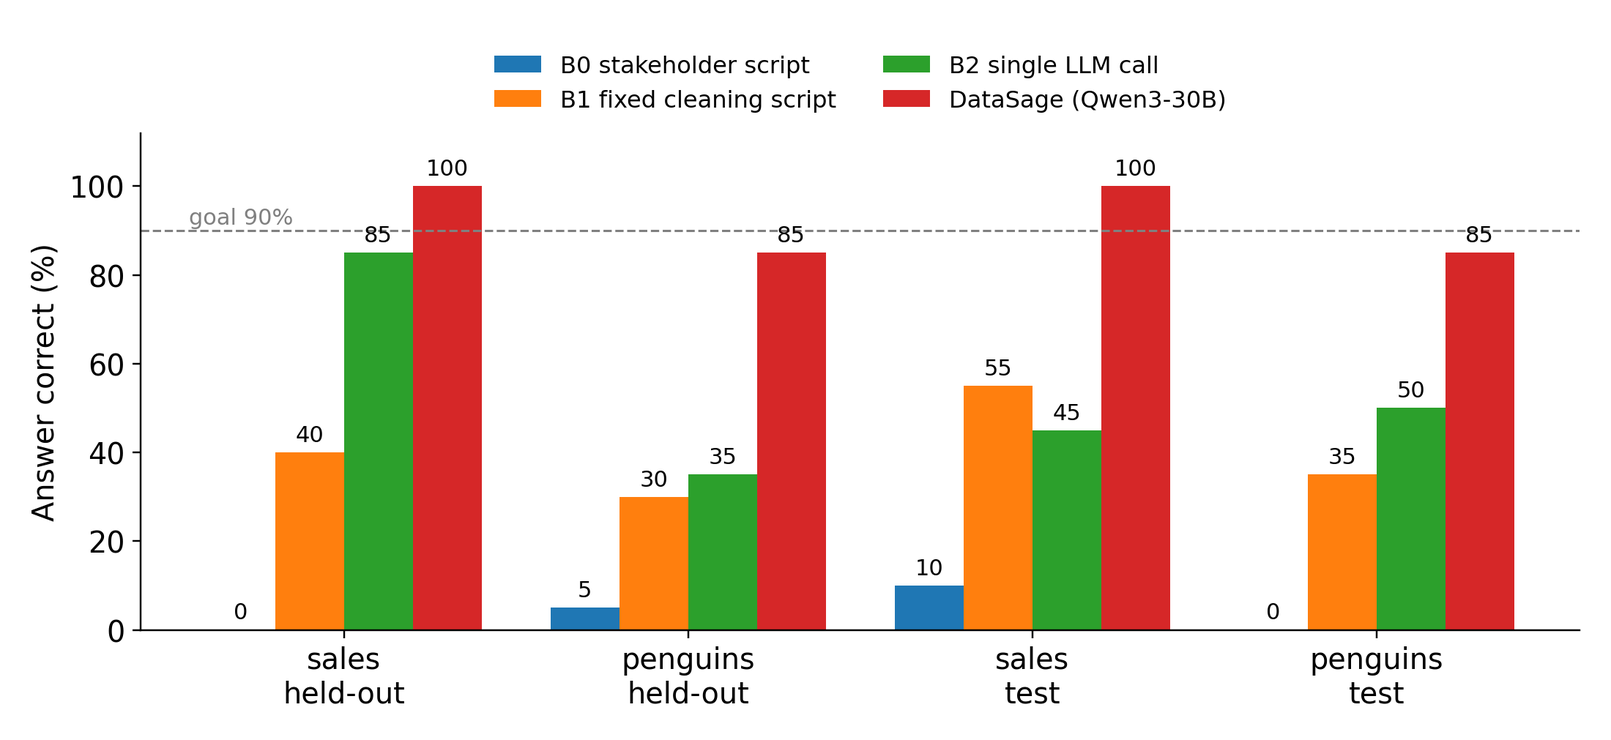
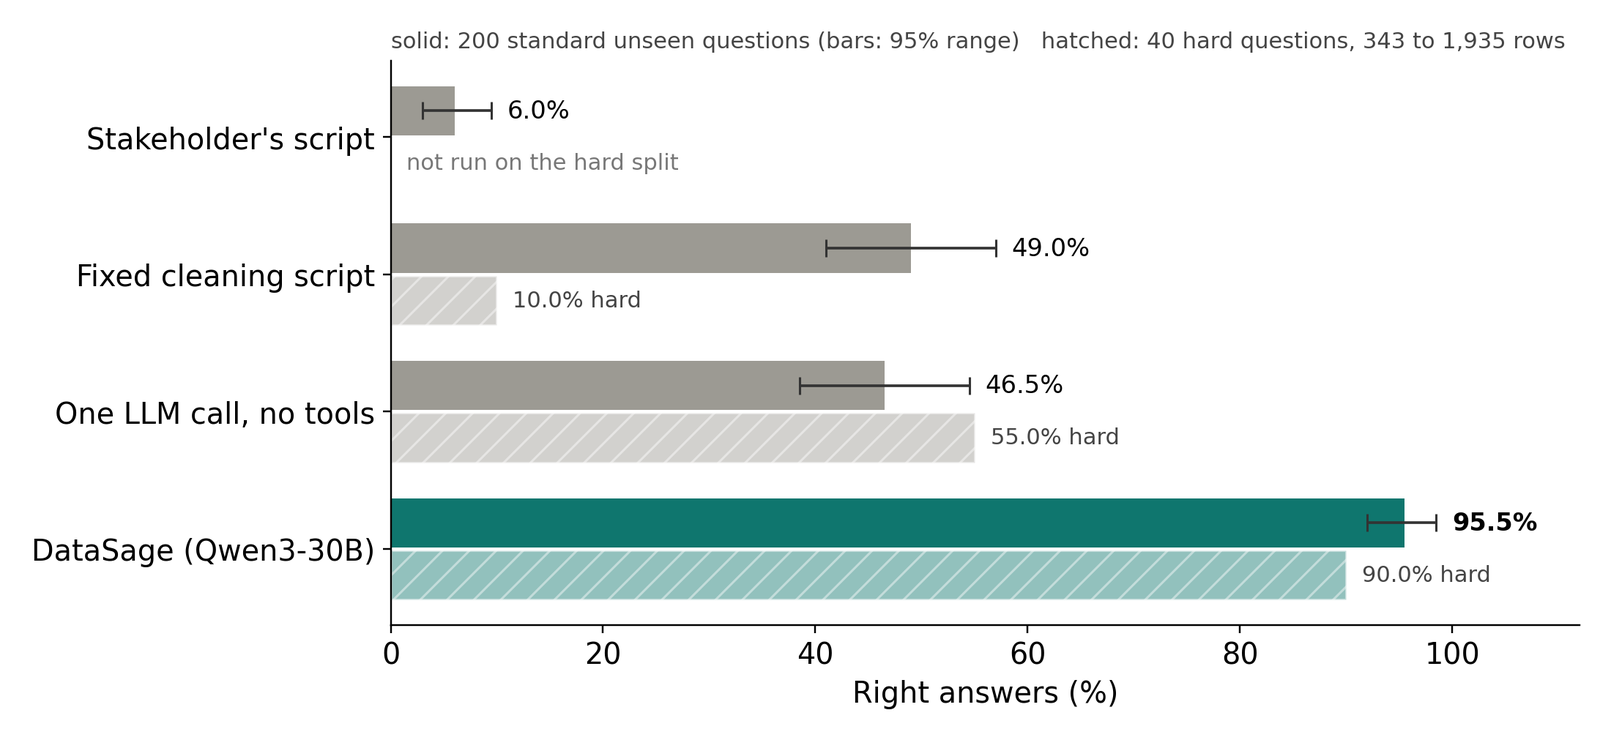
Update the poster and README with the scale, hard benchmark and Auto findings (model comparison to follow).

diff --git a/docs/final/poster/poster.html b/docs/final/poster/poster.html
@@ -30,13 +30,12 @@ a{color:#1F4E99}a:hover{color:#14284B}
 
 <div style="display: flex; flex-direction: column; gap: 30px; min-width: 0">
 
-<div style="background: #1F4E99; color: #FFFFFF; padding: 30px 36px; font-size: 44px; line-height: 1.28">An LLM agent that <b>checks, fixes and asks before it answers</b> gets <b>92.5%</b> of questions on messy tables right, against <b>54%</b> for a single LLM call, and never damaged a valid cell.</div>
+<div style="background: #1F4E99; color: #FFFFFF; padding: 30px 36px; font-size: 44px; line-height: 1.28">An LLM agent that <b>checks, fixes and asks before it answers</b> gets <b>95.5%</b> of 200 unseen questions on messy tables right, against <b>46.5%</b> for a single LLM call, and never damaged a valid cell.</div>
 
 <section style="display: flex; flex-direction: column; gap: 16px">
 <h2 style="margin: 0; background: #14284B; color: #FFFFFF; font-size: 32px; font-weight: 700; padding: 8px 20px">Problem</h2>
 <ul style="margin: 0; padding-left: 34px">
-<li>People ask simple questions (“total revenue by category?”) of messy CSV and Excel files.</li>
-<li>Duplicates, misspelled labels, bad dates and impossible values quietly change the answer.</li>
+<li>People ask simple questions (“total revenue by category?”) of messy CSV and Excel files, where duplicates, misspelled labels, bad dates and impossible values quietly change the answer.</li>
 <li>A fixed cleaning script misses what it was not written for. A single LLM call edits data it should leave alone and leaves no record of what it changed.</li>
 <li>Our stakeholder asked for: correct answers, no damaged data, every change logged, and a question before any risky change.</li>
 </ul>
@@ -70,10 +69,8 @@ a{color:#1F4E99}a:hover{color:#14284B}
 </div>
 <p style="margin: 0; text-align: center; font-size: 23px; line-height: 1.35"><span style="color: #1F4E99; font-weight: 700">Figure 1:</span> The DataSage loop. Only the planner (blue) uses a language model; orange marks approval decisions. Steps 2 to 4 repeat, one fix per step, until the columns the question uses are clean.</p>
 <ul style="margin: 0; padding-left: 34px">
-<li><b>Tools, not free-form code.</b> The model sees a profile and sample rows, never the whole table, and acts only through tools. Python does every calculation.</li>
-<li><b>Approval gate.</b> Code, not the model, sets each fix's risk. Low risk runs; medium and high risk ask the user. A rejected fix becomes a caveat and is not retried.</li>
-<li><b>Validator.</b> Every fix makes a new version. If rows or totals don't reconcile, the change is rolled back.</li>
-<li><b>Coverage check.</b> Before answering, code runs any check the rules require for the question's columns and sends open problems back to the planner.</li>
+<li><b>Tools, not free-form code:</b> the model sees a profile and sample rows and acts only through tools; Python does every calculation. A <b>validator</b> rolls back any fix whose rows or totals don't reconcile.</li>
+<li><b>Code decides what is risky, and what is still unchecked:</b> risky fixes wait for the user (a rejected fix becomes a caveat), and a <b>coverage check</b> runs any check the rules require before answering.</li>
 </ul>
 </section>
 
@@ -94,17 +91,8 @@ a{color:#1F4E99}a:hover{color:#14284B}
 </tbody>
 </table>
 <p style="margin: 0; text-align: center; font-size: 23px"><span style="color: #1F4E99; font-weight: 700">Table 1:</span> The input file (8 rows). Shaded cells break a rule; order 1004 appears twice.</p>
-<table style="border-collapse: collapse; width: 100%; font-size: 24px; line-height: 1.25; border-top: 3px solid #111111; border-bottom: 3px solid #111111">
-<thead><tr style="border-bottom: 1.5px solid #111111; text-align: left"><th style="padding: 7px 12px">Fix proposed by the planner</th><th style="padding: 7px 12px">Risk</th><th style="padding: 7px 12px">Decision</th></tr></thead>
-<tbody>
-<tr><td style="padding: 5px 12px">drop_duplicates (second copy of 1004)</td><td style="padding: 5px 12px">medium</td><td style="padding: 5px 12px">approved</td></tr>
-<tr><td style="padding: 5px 12px">normalize_labels (electronics, accessories)</td><td style="padding: 5px 12px">low</td><td style="padding: 5px 12px">applied, no question</td></tr>
-<tr><td style="padding: 5px 12px">exclude_rows (Quantity −1)</td><td style="padding: 5px 12px">high</td><td style="padding: 5px 12px">rejected → caveat</td></tr>
-<tr><td style="padding: 5px 12px">set_missing (“not-a-date”)</td><td style="padding: 5px 12px">high</td><td style="padding: 5px 12px">rejected → caveat</td></tr>
-</tbody>
-</table>
-<p style="margin: 0; text-align: center; font-size: 23px"><span style="color: #1F4E99; font-weight: 700">Table 2:</span> One run with Qwen3-30B: 14 tool calls, 3 questions to the user, 13 s.</p>
-<p style="margin: 0"><b>Answer:</b> Electronics 2,185 and Accessories 830 (7 rows used), with both rejected fixes listed as caveats. The run also writes replay.py, plain pandas that repeats the approved fixes.</p>
+<img src="figs/app_shot.png" alt="The DataSage browser app: a risky fix to drop six rows waits on a card under the first affected row, listing each row with its rule-breaking Quantity highlighted" style="width: 100%; height: auto; display: block; border: 1px solid #C9CDD6">
+<p style="margin: 0; text-align: center; font-size: 23px"><span style="color: #1F4E99; font-weight: 700">Figure 2:</span> The browser app on a 1,208-row version: a risky fix waits under the row it affects, with the exact rows as evidence. <i>Ask me</i> or <i>Auto</i> mode; every output (cleaned table, report, replay script, step log) can be viewed and downloaded.</p>
 </section>
 
 </div>
@@ -114,39 +102,39 @@ a{color:#1F4E99}a:hover{color:#14284B}
 <section style="display: flex; flex-direction: column; gap: 16px">
 <h2 style="margin: 0; background: #14284B; color: #FFFFFF; font-size: 32px; font-weight: 700; padding: 8px 20px">Benchmark</h2>
 <ul style="margin: 0; padding-left: 34px">
-<li>120 questions on tables with planted errors: a generated sales table and Palmer Penguins [3]. Dev, held-out and test splits, 40 questions each.</li>
-<li>8 kinds of planted error. Answers are scored against the same question on the clean table; an oracle that knows the planted errors answers approvals.</li>
+<li><b>200 unseen questions</b> on generated sales tables and Palmer Penguins [3] (five seeds, 40 each; 40 more were used while building), plus a <b>hard split</b> of 40 questions on tables of 343 to 1,935 rows with many problems at once.</li>
+<li>Answers are scored against the clean table; an oracle that knows the planted errors answers approvals. The final system was run 4 times.</li>
 <li><b>B0</b> the stakeholder's rule-based script · <b>B1</b> a fixed cleaning script · <b>B2</b> a single LLM call with no tools.</li>
-<li>Models: Qwen3-30B-A3B and Qwen3-235B-A22B [2] on ASU Research Computing.</li>
+<li>Planner: Qwen3-30B-A3B [2] on ASU Research Computing; 42 models on the same API were also tried as the planner.</li>
 </ul>
 </section>
 
 <section style="display: flex; flex-direction: column; gap: 16px">
 <h2 style="margin: 0; background: #14284B; color: #FFFFFF; font-size: 32px; font-weight: 700; padding: 8px 20px">Results</h2>
-<img src="figs/fig_accuracy.png" alt="Grouped bar chart of answer accuracy for B0, B1, B2 and DataSage on four held-out and test splits" style="width: 100%; height: auto; display: block">
-<p style="margin: 0; text-align: center; font-size: 23px"><span style="color: #1F4E99; font-weight: 700">Figure 2:</span> Answer accuracy on held-out (seed 101) and test (seed 202) tables, 20 questions per bar.</p>
+<img src="figs/fig_accuracy.png" alt="Bar chart of right answers by approach on 200 standard questions with 95% ranges, and on 40 hard questions" style="width: 100%; height: auto; display: block">
+<p style="margin: 0; text-align: center; font-size: 23px"><span style="color: #1F4E99; font-weight: 700">Figure 3:</span> Right answers by approach: 200 standard unseen questions (solid, with 95% ranges) and 40 hard questions (hatched).</p>
 <table style="border-collapse: collapse; width: 100%; font-size: 24px; line-height: 1.25; border-top: 3px solid #111111; border-bottom: 3px solid #111111">
-<thead><tr style="border-bottom: 1.5px solid #111111"><th style="padding: 7px 12px; text-align: left">System</th><th style="padding: 7px 12px; text-align: right">Held-out (%)</th><th style="padding: 7px 12px; text-align: right">Test (%)</th><th style="padding: 7px 12px; text-align: right">Damaged cells</th><th style="padding: 7px 12px; text-align: right">s / question</th></tr></thead>
+<thead><tr style="border-bottom: 1.5px solid #111111"><th style="padding: 7px 12px; text-align: left">System</th><th style="padding: 7px 12px; text-align: right">200 standard (%)</th><th style="padding: 7px 12px; text-align: right">40 hard (%)</th><th style="padding: 7px 12px; text-align: right">Damaged cells</th></tr></thead>
 <tbody>
-<tr><td style="padding: 5px 12px">B0 stakeholder script</td><td style="padding: 5px 12px; text-align: right">2.5</td><td style="padding: 5px 12px; text-align: right">5.0</td><td style="padding: 5px 12px; text-align: right">0</td><td style="padding: 5px 12px; text-align: right">&lt; 1</td></tr>
-<tr><td style="padding: 5px 12px">B1 fixed script</td><td style="padding: 5px 12px; text-align: right">35.0</td><td style="padding: 5px 12px; text-align: right">45.0</td><td style="padding: 5px 12px; text-align: right">0</td><td style="padding: 5px 12px; text-align: right">&lt; 1</td></tr>
-<tr><td style="padding: 5px 12px">B2 single LLM call</td><td style="padding: 5px 12px; text-align: right">60.0</td><td style="padding: 5px 12px; text-align: right">47.5</td><td style="padding: 5px 12px; text-align: right">35</td><td style="padding: 5px 12px; text-align: right">32.5</td></tr>
-<tr style="border-top: 1px solid #111111"><td style="padding: 5px 12px">DataSage, 235B + rule</td><td style="padding: 5px 12px; text-align: right">87.5</td><td style="padding: 5px 12px; text-align: right">n/a</td><td style="padding: 5px 12px; text-align: right">0</td><td style="padding: 5px 12px; text-align: right">153.6</td></tr>
-<tr><td style="padding: 5px 12px"><b>DataSage, 30B (final)</b></td><td style="padding: 5px 12px; text-align: right"><b>92.5</b></td><td style="padding: 5px 12px; text-align: right"><b>92.5</b></td><td style="padding: 5px 12px; text-align: right"><b>0</b></td><td style="padding: 5px 12px; text-align: right"><b>16.6</b></td></tr>
+<tr><td style="padding: 5px 12px">B0 stakeholder script</td><td style="padding: 5px 12px; text-align: right">6.0</td><td style="padding: 5px 12px; text-align: right">not run</td><td style="padding: 5px 12px; text-align: right">0</td></tr>
+<tr><td style="padding: 5px 12px">B1 fixed script</td><td style="padding: 5px 12px; text-align: right">49.0</td><td style="padding: 5px 12px; text-align: right">10.0</td><td style="padding: 5px 12px; text-align: right">0</td></tr>
+<tr><td style="padding: 5px 12px">B2 single LLM call</td><td style="padding: 5px 12px; text-align: right">46.5</td><td style="padding: 5px 12px; text-align: right">55.0</td><td style="padding: 5px 12px; text-align: right">119 + 637</td></tr>
+<tr style="border-top: 1px solid #111111"><td style="padding: 5px 12px"><b>DataSage, 30B (final)</b></td><td style="padding: 5px 12px; text-align: right"><b>95.5</b> (92.0 to 98.5)</td><td style="padding: 5px 12px; text-align: right"><b>90.0</b></td><td style="padding: 5px 12px; text-align: right"><b>0</b></td></tr>
+<tr><td style="padding: 5px 12px">DataSage, 235B</td><td style="padding: 5px 12px; text-align: right">n/a</td><td style="padding: 5px 12px; text-align: right">97.5</td><td style="padding: 5px 12px; text-align: right">0</td></tr>
 </tbody>
 </table>
-<p style="margin: 0; text-align: center; font-size: 23px"><span style="color: #1F4E99; font-weight: 700">Table 3:</span> 40 questions per split. Damaged cells are valid cells changed, summed over both splits; seconds are the median per question. The 235B model was run on held-out only.</p>
-<img src="figs/fig_speed.png" alt="Scatter plot of answer accuracy against median seconds per question on held-out, log scale" style="width: 88%; height: auto; display: block; margin: 0 auto">
-<p style="margin: 0; text-align: center; font-size: 23px"><span style="color: #1F4E99; font-weight: 700">Figure 3:</span> Accuracy against speed on held-out. Only the final 30B setting meets both goals.</p>
+<p style="margin: 0; text-align: center; font-size: 23px"><span style="color: #1F4E99; font-weight: 700">Table 3:</span> Damaged cells are valid cells a system changed (standard + hard). Over 4 runs the final system scored 94.0% to 96.0%; median about 16 s per question.</p>
+<img src="figs/fig_parts.png" alt="Bar chart of right answers when each part of DataSage is turned off, on the same 200 questions" style="width: 88%; height: auto; display: block; margin: 0 auto">
+<p style="margin: 0; text-align: center; font-size: 23px"><span style="color: #1F4E99; font-weight: 700">Figure 4:</span> What each part is worth: one part turned off, same 200 questions.</p>
 </section>
 
 <section style="display: flex; flex-direction: column; gap: 16px">
 <h2 style="margin: 0; background: #14284B; color: #FFFFFF; font-size: 32px; font-weight: 700; padding: 8px 20px">What we learned</h2>
 <ul style="margin: 0; padding-left: 34px">
-<li>The main early failure was blanking rows that break a rule instead of dropping them. One prompt rule fixed most of it (held-out penguins 40% → 80% with 30B).</li>
-<li>Moving a check from the prompt into code worked better than asking the model: the coverage check removed every misspelled-label failure.</li>
-<li>A short state summary meant to save tokens made the 30B model repeat checks, so we kept the full history (about 60k tokens per question).</li>
-<li><b>Limitation:</b> all 6 remaining misses are rule-breaking rows in columns the question doesn't use. Checking only the question's columns was the stakeholder's choice.</li>
+<li><b>Approvals and full history carry the system:</b> refusing every risky fix drops accuracy to 12%, a short memory summary to 86%. The validator and the prompt's merge rule showed no measurable effect.</li>
+<li><b>It holds on bigger, messier tables:</b> 90% on the hard split with zero damaged cells; all 1,750 errors the questions depended on were fixed.</li>
+<!--MODELS-->
+<li><b>Limitation:</b> 36 of 39 remaining misses are rows breaking a rule in a column the question does not use (60.9% right on those questions, 99.6% on the rest). Checking only the question's columns was the stakeholder's choice; checking all columns is the next step.</li>
 </ul>
 </section>
 

diff --git a/docs/final/poster/make_figs.py b/docs/final/poster/make_figs.py
@@ -1,67 +1,119 @@
-"""Poster figures from eval/results/summary.md numbers (held-out seed 101, test seed 202)."""
+"""Poster figures, read straight from the result files so the poster cannot drift from the data.
+
+    python docs/final/poster/make_figs.py docs/final/poster/figs      # needs matplotlib and segno
+
+- fig_accuracy.png  right answers by approach: 200 standard unseen questions (95% ranges) and the hard split
+- fig_parts.png     what each part of DataSage is worth (ablations on the same 200 questions)
+- fig_models.png    accuracy against speed for every model tried as DataSage's planner (if the model study exists)
+- qr_repo.png       QR code to the repository
+Sources: eval/results/study_scale_ablations.json, eval/results/summary.csv, eval/results/study_models.json.
+"""
+import csv
+import json
 import sys
 from pathlib import Path
 
 import matplotlib
-matplotlib.use("Agg")
-import matplotlib.pyplot as plt
-import segno
 
-out = Path(sys.argv[1])
+matplotlib.use("Agg")
+import matplotlib.pyplot as plt  # noqa: E402
+import segno  # noqa: E402
+
+ROOT = Path(__file__).resolve().parents[3]
+RESULTS = ROOT / "eval" / "results"
+out = Path(sys.argv[1] if len(sys.argv) > 1 else Path(__file__).parent / "figs")
 out.mkdir(parents=True, exist_ok=True)
 plt.rcParams.update({"font.size": 13, "axes.spines.top": False, "axes.spines.right": False})
+GREY, TEAL, DARK = "#9C9A93", "#0F766E", "#14284B"
 
-# Figure 2: answer accuracy per split.
-splits = ["sales\nheld-out", "penguins\nheld-out", "sales\ntest", "penguins\ntest"]
-systems = {
-    "B0 stakeholder script": [0, 5, 10, 0],
-    "B1 fixed cleaning script": [40, 30, 55, 35],
-    "B2 single LLM call": [85, 35, 45, 50],
-    "DataSage (Qwen3-30B)": [100, 85, 100, 85],
-}
+study = json.loads((RESULTS / "study_scale_ablations.json").read_text())
+abl = study["ablations"]
+rows = list(csv.DictReader(open(RESULTS / "summary.csv")))
+
+
+def pooled(system: str, splits: list[str]):
+    picked = [r for r in rows if r["system"] == system and r["dataset"] in splits]
+    if len(picked) != len(splits):
+        return None
+    n = sum(int(r["tasks"]) for r in picked)
+    return 100 * sum(round(float(r["analysis_accuracy"]) * int(r["tasks"])) for r in picked) / n
+
+
+# Figure 2: right answers by approach, standard (200 questions, with 95% ranges) and hard (40 questions).
+names = [("b0", "Stakeholder's script"), ("b1", "Fixed cleaning script"), ("b2", "One LLM call, no tools"),
+         ("datasage-m3", "DataSage (Qwen3-30B)")]
+hard = {k: pooled(k, ["sales-hard", "penguins-hard"]) for k, _ in names}
 fig, ax = plt.subplots(figsize=(10, 4.6), dpi=220)
-w = 0.2
-for i, (name, vals) in enumerate(systems.items()):
-    xs = [j + (i - 1.5) * w for j in range(len(splits))]
-    bars = ax.bar(xs, vals, w, label=name)
-    for x, v in zip(xs, vals):
-        ax.text(x, v + 1.5, f"{v}", ha="center", va="bottom", fontsize=10)
-ax.axhline(90, ls="--", lw=1, color="gray")
-ax.text(-0.45, 91.5, "goal 90%", color="gray", fontsize=10, ha="left")
-ax.set_xticks(range(len(splits)), splits)
-ax.set_ylabel("Answer correct (%)")
-ax.set_ylim(0, 112)
-ax.legend(ncol=2, fontsize=10.5, frameon=False, loc="upper center", bbox_to_anchor=(0.5, 1.2))
+ys = list(range(len(names)))[::-1]
+for y, (key, label) in zip(ys, names):
+    a = abl[key]
+    acc, lo, hi = 100 * a["accuracy"], 100 * a["ci95"][0], 100 * a["ci95"][1]
+    color = TEAL if key == "datasage-m3" else GREY
+    ax.barh(y + 0.19, acc, 0.36, color=color)
+    ax.errorbar(acc, y + 0.19, xerr=[[acc - lo], [hi - acc]], fmt="none", ecolor="#333", capsize=4, lw=1.2)
+    ax.text(hi + 1.5, y + 0.19, f"{acc:.1f}%", va="center", fontsize=11, fontweight="bold" if key == "datasage-m3" else None)
+    if hard[key] is not None:
+        ax.barh(y - 0.19, hard[key], 0.36, color=color, alpha=0.45, hatch="//", edgecolor="white")
+        ax.text(hard[key] + 1.5, y - 0.19, f"{hard[key]:.1f}% hard", va="center", fontsize=10, color="#444")
+    else:
+        ax.text(1.5, y - 0.19, "not run on the hard split", va="center", fontsize=10, color="#777")
+ax.set_yticks(ys, [lab for _, lab in names])
+ax.set_xlim(0, 112)
+ax.set_xlabel("Right answers (%)")
+ax.text(0, len(names) - 0.35, f"solid: {abl['datasage-m3']['n']} standard unseen questions (bars: 95% range)   "
+        "hatched: 40 hard questions, 343 to 1,935 rows", fontsize=10, color="#444")
 fig.tight_layout()
 fig.savefig(out / "fig_accuracy.png")
+plt.close(fig)
 
-# Figure 3: accuracy vs seconds per question (held-out, mean of the two datasets).
-pts = [
-    ("B2 single LLM call", 28.75, 60.0),
-    ("235B", 216.3, 62.5),
-    ("235B + exclusion rule", 153.6, 87.5),
-    ("30B", 14.45, 67.5),
-    ("30B + exclusion rule", 14.15, 85.0),
-    ("30B final (+ coverage check)", 17.6, 92.5),
-]
-fig, ax = plt.subplots(figsize=(10, 4.4), dpi=220)
-for name, s, acc in pts:
-    ax.scatter(s, acc, s=60, zorder=3)
-    dx, ha = (1.12, "left")
-    dy = -4.0 if name == "235B + exclusion rule" else 1.2
-    ax.annotate(name, (s, acc), xytext=(s * dx, acc + dy), fontsize=10.5, ha=ha)
-ax.set_xscale("log")
-ax.axvline(60, ls="--", lw=1, color="gray")
-ax.axhline(90, ls="--", lw=1, color="gray")
-ax.text(62, 52, "60 s goal", color="gray", fontsize=10)
-ax.text(10.5, 91, "90% goal", color="gray", fontsize=10)
-ax.set_xlim(10, 400)
-ax.set_ylim(50, 100)
-ax.set_xlabel("Median seconds per question (log scale)")
-ax.set_ylabel("Answer correct (%)")
+# Figure 3: what each part is worth.
+parts = [("datasage-m3", "All parts on"), ("datasage-m3-nomerge", "No merge rule in prompt"),
+         ("datasage-m3-novalidator", "No validator"), ("datasage-m3-nocoverage", "No coverage check"),
+         ("datasage-m3-compact", "Short memory"), ("datasage-m3-reject", "No approvals (all refused)")]
+fig, ax = plt.subplots(figsize=(10, 4.2), dpi=220)
+ys = list(range(len(parts)))[::-1]
+for y, (key, label) in zip(ys, parts):
+    a = abl[key]
+    acc, lo, hi = 100 * a["accuracy"], 100 * a["ci95"][0], 100 * a["ci95"][1]
+    ax.barh(y, acc, 0.6, color=TEAL if key == "datasage-m3" else GREY)
+    ax.errorbar(acc, y, xerr=[[acc - lo], [hi - acc]], fmt="none", ecolor="#333", capsize=4, lw=1.2)
+    ax.text(hi + 1.5, y, f"{acc:.1f}%", va="center", fontsize=11)
+ax.set_yticks(ys, [lab for _, lab in parts])
+ax.set_xlim(0, 110)
+ax.set_xlabel(f"Right answers on the same {abl['datasage-m3']['n']} questions (%)")
 fig.tight_layout()
-fig.savefig(out / "fig_speed.png")
+fig.savefig(out / "fig_parts.png")
+plt.close(fig)
 
-segno.make("https://github.com/shrey-Bish/cse598-group25-datasage", error="m").save(
-    out / "qr_repo.png", scale=12, border=2)
-print("ok")
+# Figure 4 (when the model study exists): every planner model, accuracy against median seconds.
+models_path = RESULTS / "study_models.json"
+if models_path.exists():
+    data = json.loads(models_path.read_text())
+    entries = data.get("models") or data.get("systems") or []
+    if isinstance(entries, dict):
+        entries = [{"name": k, **v} for k, v in entries.items()]
+    pts = []
+    for e in entries:
+        acc = e.get("accuracy") or (e.get("agent") or {}).get("accuracy")
+        sec = e.get("seconds_median") or e.get("median_seconds") or (e.get("agent") or {}).get("seconds_median")
+        name = e.get("short") or e.get("name") or e.get("model")
+        if acc is not None and sec:
+            pts.append((name, float(sec), 100 * float(acc) if acc <= 1 else float(acc)))
+    if pts:
+        fig, ax = plt.subplots(figsize=(10, 4.6), dpi=220)
+        for name, sec, acc in pts:
+            default = "qwen3-30b" in str(name) and "think" not in str(name) and "coder" not in str(name)
+            ax.scatter(sec, acc, s=70 if default else 28, color=TEAL if default else GREY, zorder=3 if default else 2)
+            if default or acc >= 92 or acc < 30:
+                ax.annotate(name, (sec, acc), xytext=(5, 4), textcoords="offset points", fontsize=9,
+                            color=TEAL if default else "#333", fontweight="bold" if default else None)
+        ax.set_xscale("log")
+        ax.set_xlabel("Median seconds per question (log scale, measured under shared load)")
+        ax.set_ylabel("Right answers (%)")
+        ax.set_ylim(0, 103)
+        fig.tight_layout()
+        fig.savefig(out / "fig_models.png")
+        plt.close(fig)
+
+segno.make("https://github.com/shrey-Bish/cse598-group25-datasage", error="m").save(out / "qr_repo.png", scale=12, border=2)
+print("figures written to", out)

diff --git a/README.md b/README.md
@@ -6,6 +6,27 @@ DataSage is an agent that takes a messy CSV or Excel file and a question about i
 
 **Stakeholder:** Vyshanth Buddani ([@VB914](https://github.com/VB914)). Original proposal and baseline: https://github.com/VB914/DataSage
 
+## Results at a glance
+
+| | Right answers | Damaged cells |
+|---|---|---|
+| **DataSage (Qwen3-30B, the default)** on 200 unseen questions | **95.5%** (95% range 92.0 to 98.5; 4 runs: 94.0 to 96.0) | **0** |
+| One LLM call, no tools | 46.5% | 119 |
+| A fixed cleaning script | 49.0% | 0 |
+| The stakeholder's rule-based script | 6.0% | 0 |
+| DataSage on the hard split (343 to 1,935 rows) | 90.0% (235B model: 97.5%) | 0 |
+
+- Turning parts off on the same 200 questions: no approvals 12.0%, short memory 86.0%, no coverage check 91.5%;
+  the validator and the prompt's merge rule showed no measurable effect.
+- Almost every remaining miss is a row that breaks a rule in a column the question does not use (the
+  question-columns-only scope chosen with the stakeholder).
+- *Auto* approval mode costs about one question in 120 against a careful approver.
+<!--MODELS-README-->
+
+Write-ups: [scale, variance and ablations](docs/final/findings_scale_and_ablations.md) ·
+[hard benchmark](docs/final/findings_hard.md) · [Auto mode](docs/final/findings_auto_mode.md)<!--MODELS-LINK-->.
+The browser app's **Results** page (`/results`) shows the same numbers as charts.
+
 ## Team (Group 25)
 
 | Name | GitHub |
@@ -134,6 +155,8 @@ python -m eval.generate --tables 10 --seed 7          # dev split: 20 sales + 20
 python -m eval.generate --tables 10 --seed 101 --split heldout   # held-out split (sales-heldout, penguins-heldout)
 python -m eval.generate --tables 10 --seed 202 --split test      # test split made for Milestone 3 (sales-test, penguins-test)
 python -m eval.generate_hard --tables 10 --seed 303   # hard split: sales-hard, penguins-hard (300-2,000 rows, see docs/final/findings_hard.md)
+python -m eval.generate_hard --tables 10 --seed 404 --split hard2   # second hard seed: sales-hard2, penguins-hard2
+python -m eval.analyze_hard                           # hard split aggregates -> eval/results/hard_analysis.json
 python -m eval.run_eval --system b0 --dataset sales   # repeat for each system and dataset
 python -m eval.run_eval --system datasage --dataset penguins --workers 4
 python -m eval.run_eval --system datasage-reject --dataset sales --limit 10   # Table 8 ablations: first 10 tasks;
@@ -165,8 +188,11 @@ Systems: `b0`, `b1`, `b2`, `datasage`, `datasage-small`, `datasage-reject`, `dat
 Milestone 2 fix variants `datasage-fix`, `datasage-small-fix`, `datasage-small-fix-strict` (exclusion rule in the
 prompt; `-strict` also uses a stricter approval oracle). Milestone 3: `datasage-m3` is the default agent (30B,
 coverage check before `analyze`, spelling merges into the rules' allowed labels); `datasage-m3-compact` is the
-same with compact memory, and `datasage-m3-large` uses the 235B model. Datasets: `sales`, `penguins`,
-`sales-heldout`, `penguins-heldout`, `sales-test`, `penguins-test`. Results are cached per task, so an
+same with compact memory, and `datasage-m3-large` uses the 235B model. Later studies added `datasage-m3-auto`
+(every risky fix approved, like the app's Auto mode), `datasage-m3-gptoss` (gpt-oss-120b as the planner) and
+the ablations above. Datasets: `sales`, `penguins`, `sales-heldout`, `penguins-heldout`, `sales-test`,
+`penguins-test`, `sales-s303` / `-s404` / `-s505` and the penguin twins, `sales-hard`, `penguins-hard`,
+`sales-hard2`, `penguins-hard2`. Results are cached per task, so an
 interrupted run can be restarted.
 
 ## Run the stakeholder baseline on its own
